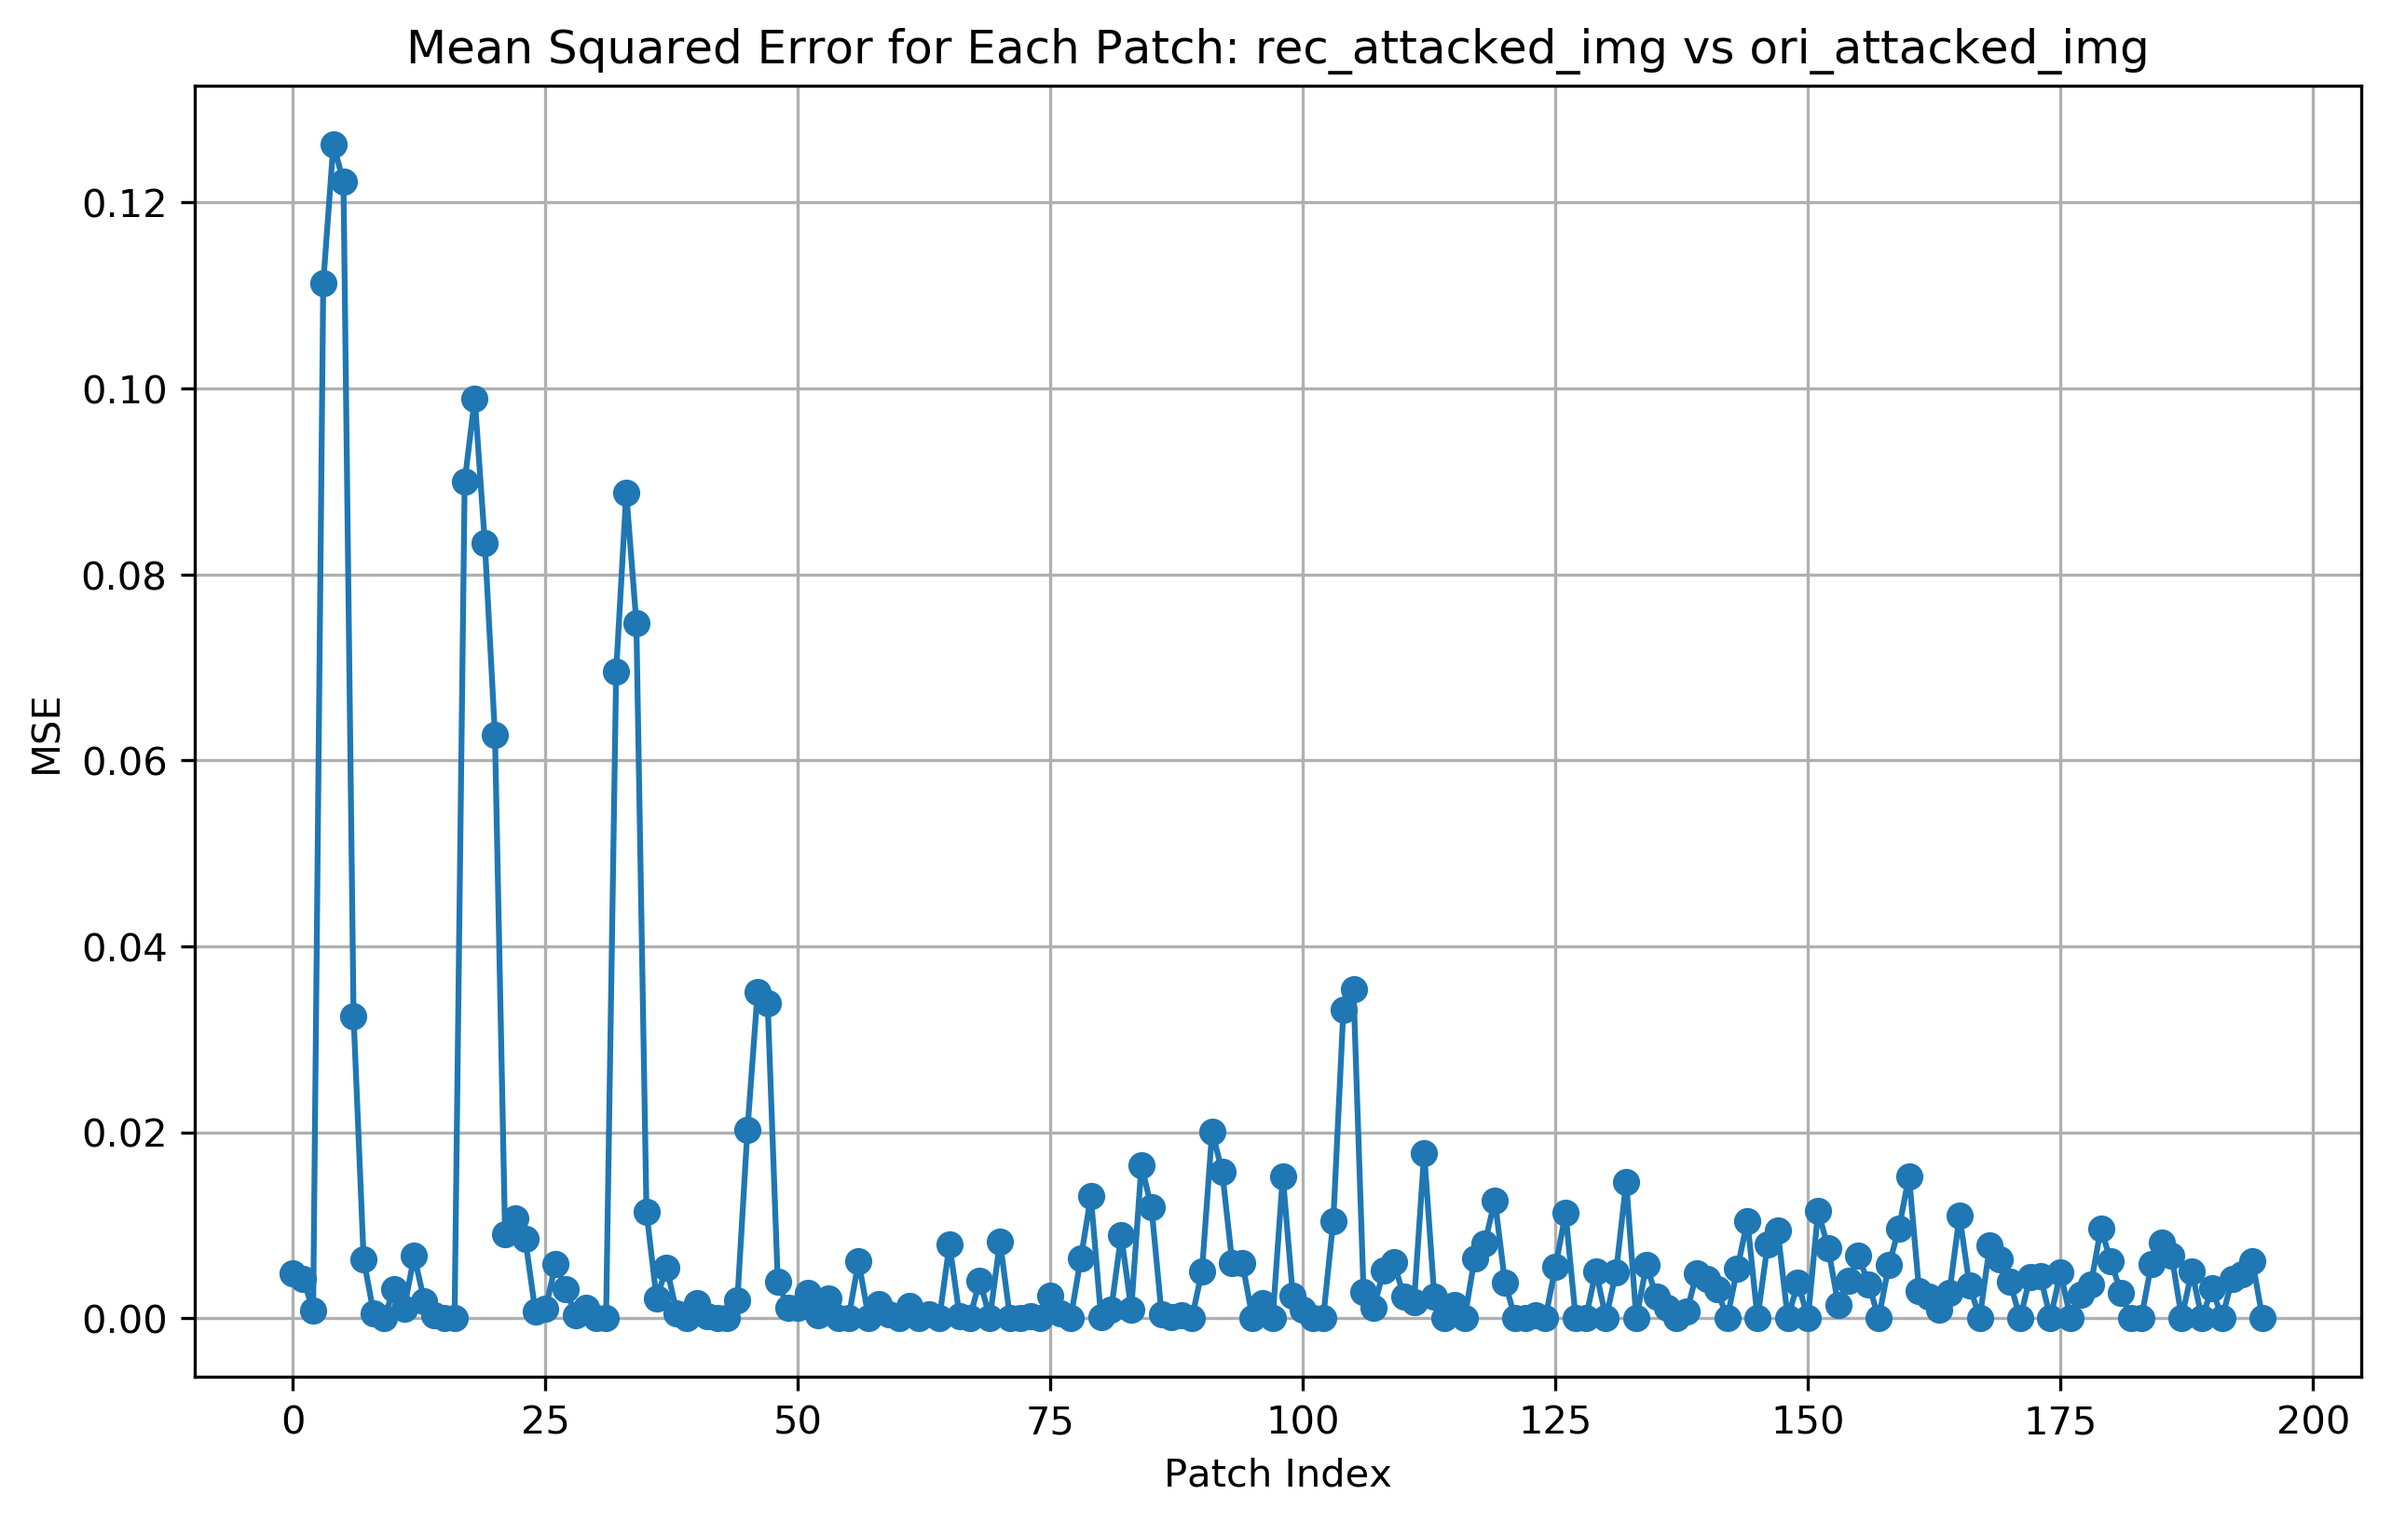
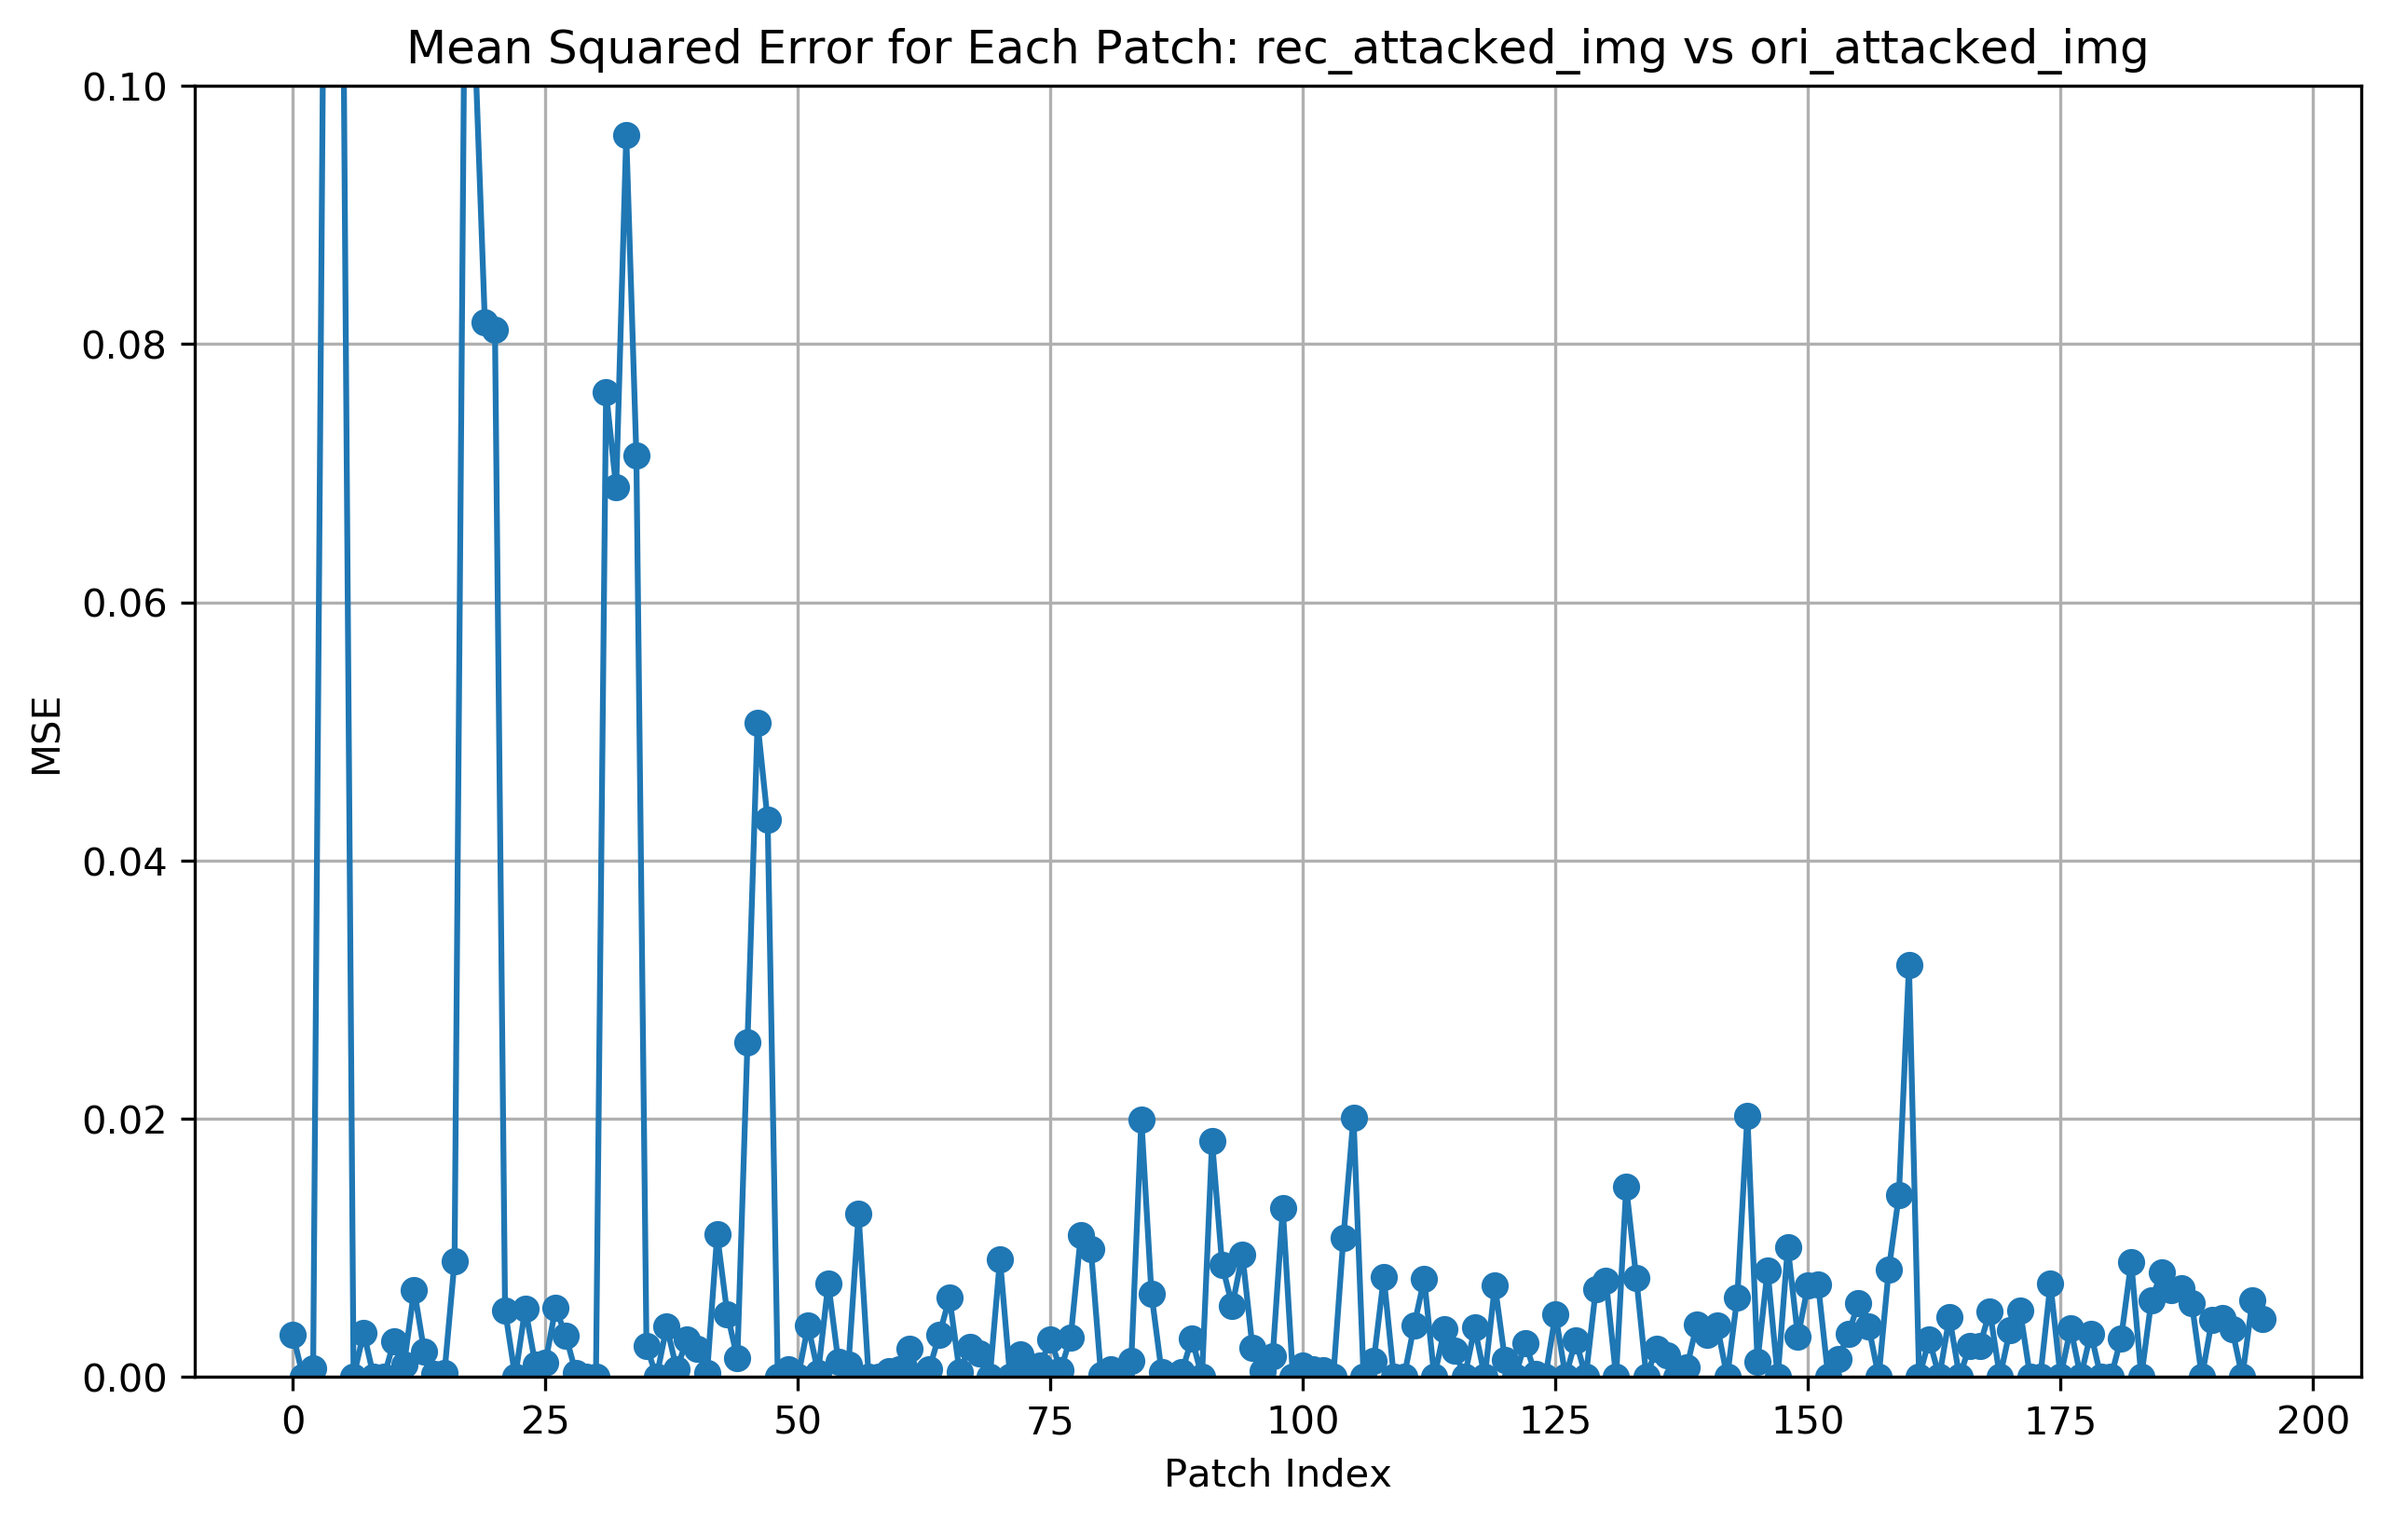
manually adjust y range to be the same

diff --git a/run_mae_vis.py b/run_mae_vis.py
@@ -108,18 +108,19 @@ def plot_mse_per_patch(mse_losses, save_path, title):
     plt.xlabel('Patch Index')
     plt.ylabel('MSE')
     plt.grid(True)
+    plt.ylim(0, 0.1)  # Manually setting y-axis range
     plt.savefig(save_path, bbox_inches='tight', dpi=300)
 
 
 def assessment(img, rec_img, img_type, patch_size):
-    #calculate accuracy
     print(f"Accuracy of rec_{img_type}_vs_ori_{img_type}: ", compute_pixelwise_accuracy(img, rec_img))
 
-    #calculate MSE for each patch: rec_img vs ori_img
     mse_losses = calculate_patchwise_mse(img, rec_img, patch_size)
     print(f"Average MSE loss (rec_{img_type}_vs_ori_{img_type}):", np.mean(mse_losses))
 
-     #plot MSE for rec_img vs img
+    # calculate y-range for the MSE plots so they share the same y-axis range:
+    y_range = (min(mse_losses), max(mse_losses))
+
     plot_mse_per_patch(mse_losses, save_path=f'out/rec_{img_type}_vs_ori_{img_type}.png', title=f'Mean Squared Error for Each Patch: rec_{img_type}_img vs ori_{img_type}_img')
 
 def main(args):
